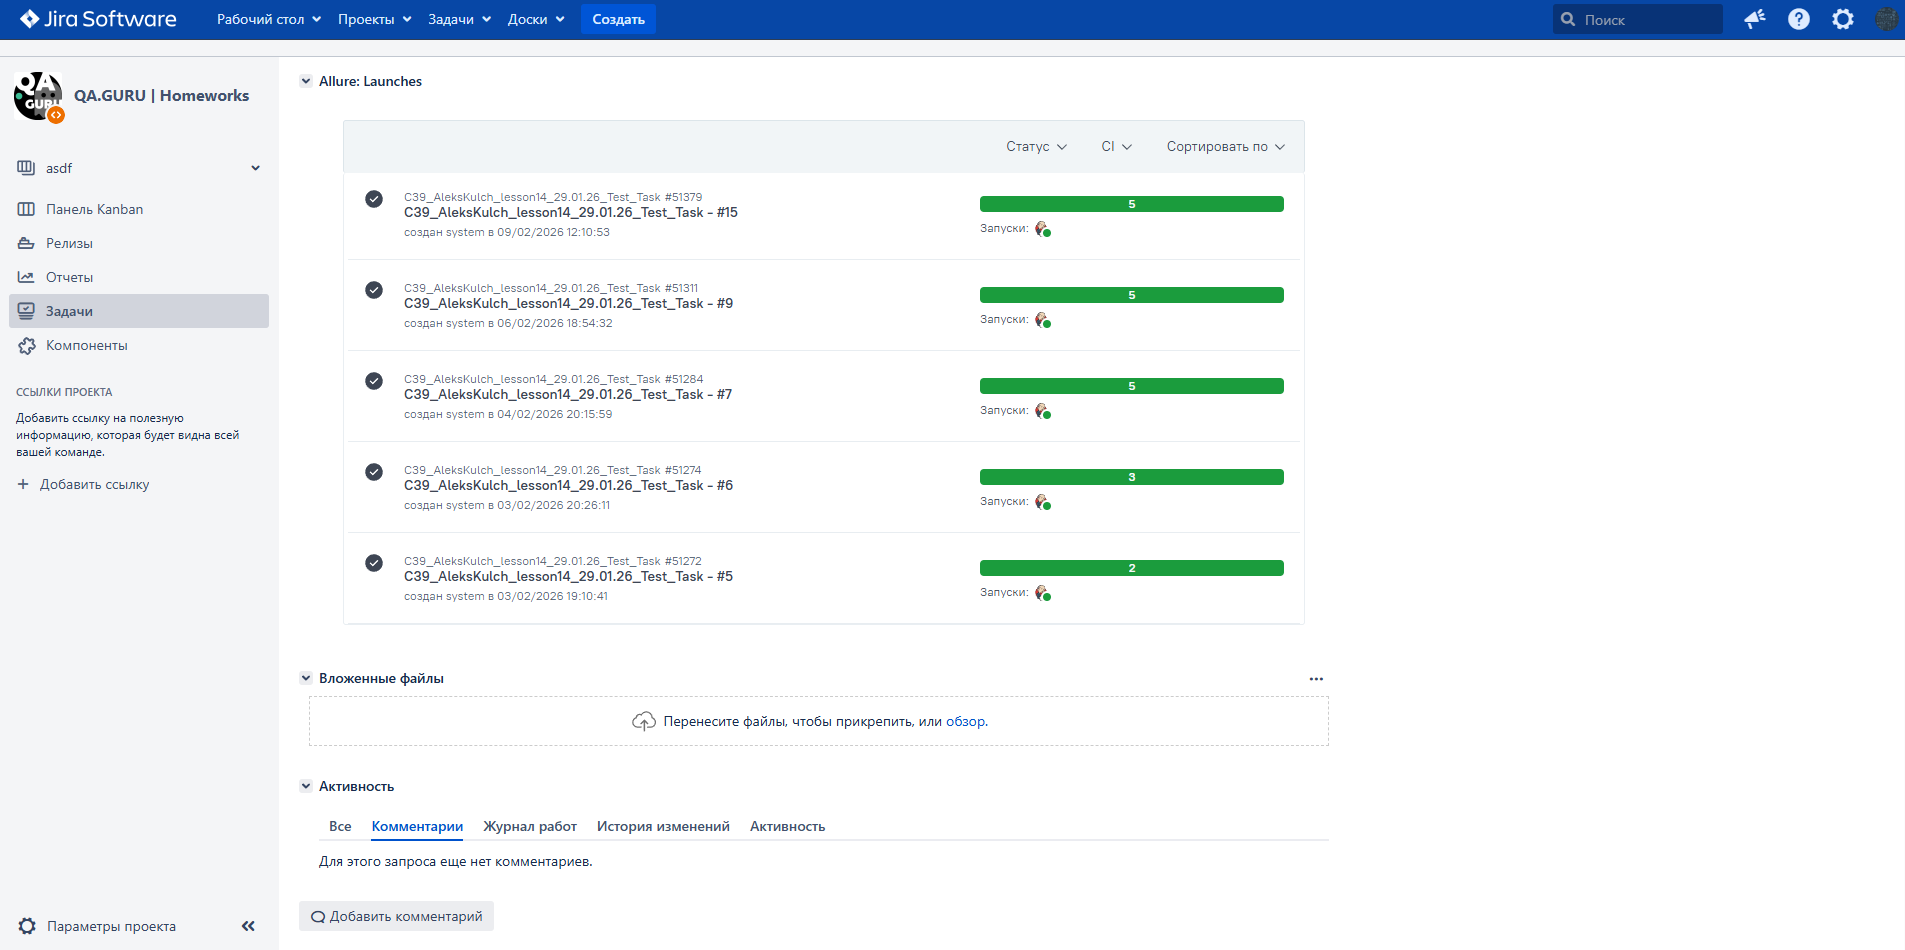
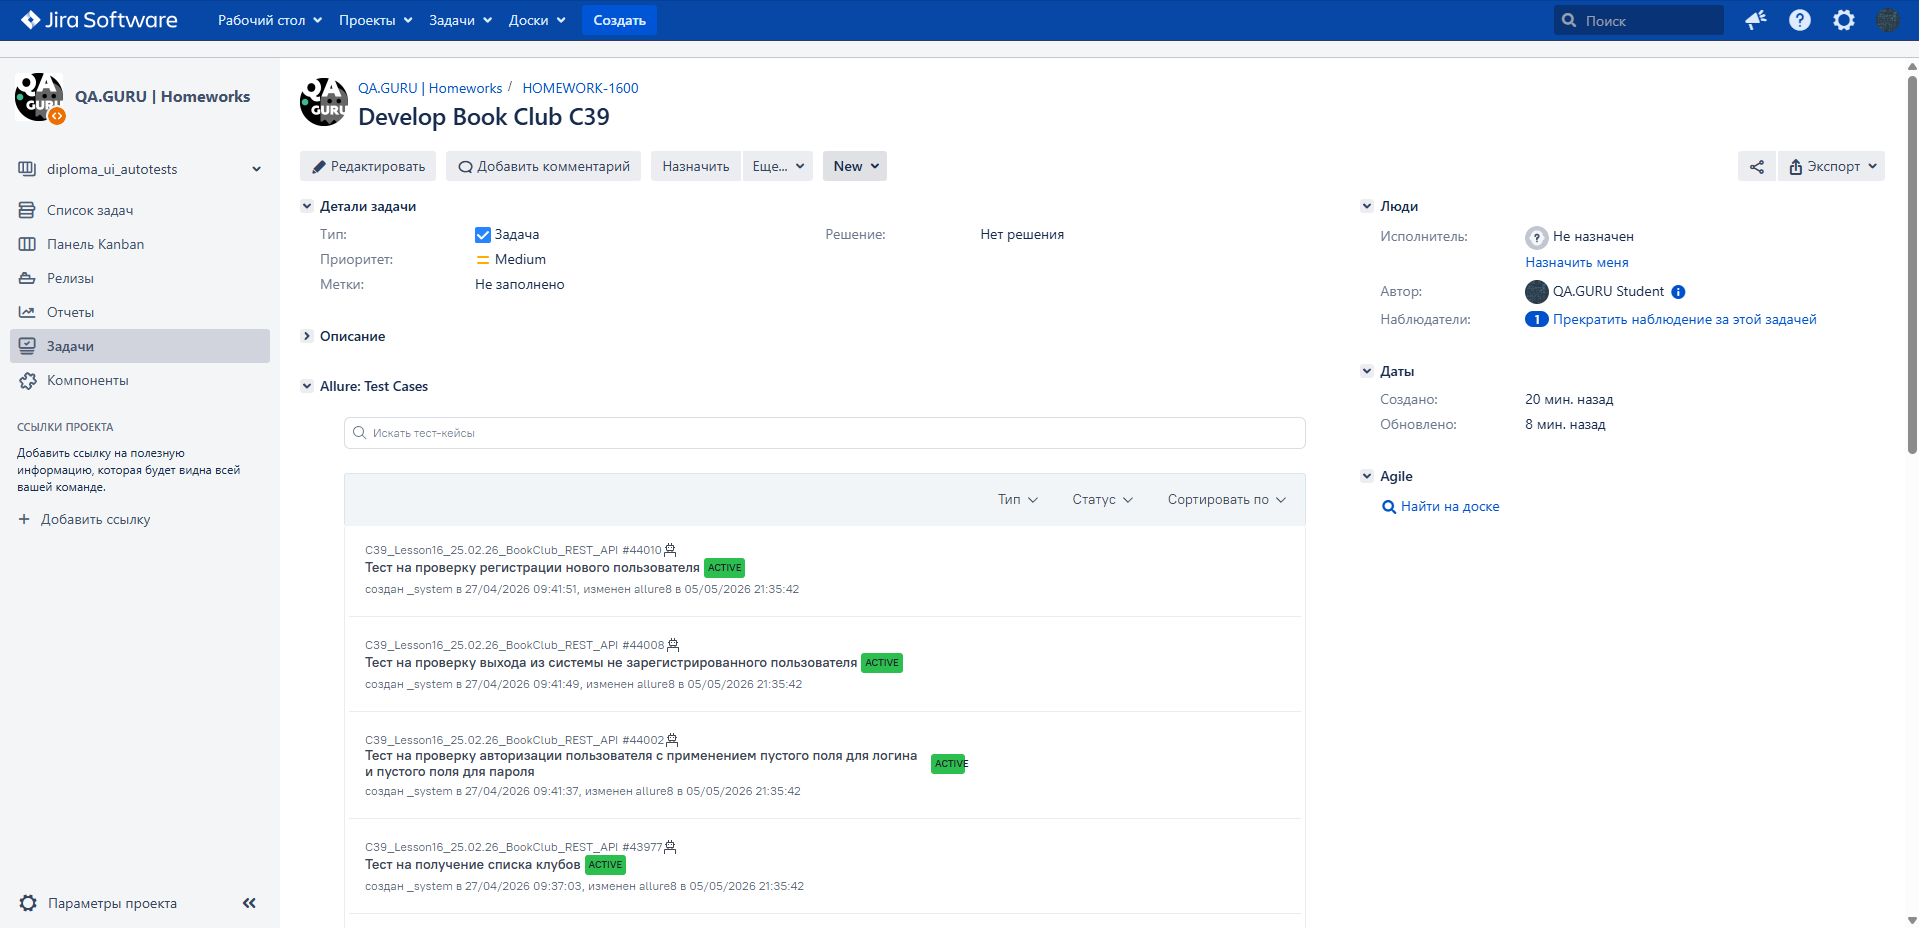
add jira in README.md

diff --git a/README.md b/README.md
@@ -155,16 +155,16 @@ src="images/screen/Jenkins_2.png">
 <img title="Allure TestOps Tests" src="images/screen/Allure_Test_Ops_2.png">
 </p>
 
-## <img src="images/logo/Jira.svg" title="Allure TestOps" width="6%"/> Интеграция с [Jira](https://jira.autotests.cloud/browse/HOMEWORK-1574)
+## <img src="images/logo/Jira.svg" title="Allure TestOps" width="6%"/> Интеграция с [Jira](https://jira.autotests.cloud/browse/HOMEWORK-1600)
 
 Реализована интеграция <code>Allure TestOps</code> с <code>Jira</code>, в тикете отображается информация, какие тест-кейсы были написаны в рамках задачи и результат их прогона.
 
 <p align="center">
-<img title="Jira Task" src="images/screen/jira_0.png">
+<img title="Jira Task" src="images/screen/jira_1.png">
 </p>
 
 <p align="center">
-<img title="Jira Task" src="images/screen/jira_1.png">
+<img title="Jira Task" src="images/screen/jira_2.png">
 </p>
 
 ## <img src="images/logo/Telegram.svg" title="Allure TestOps" width="7%"/> Уведомления в Telegram
